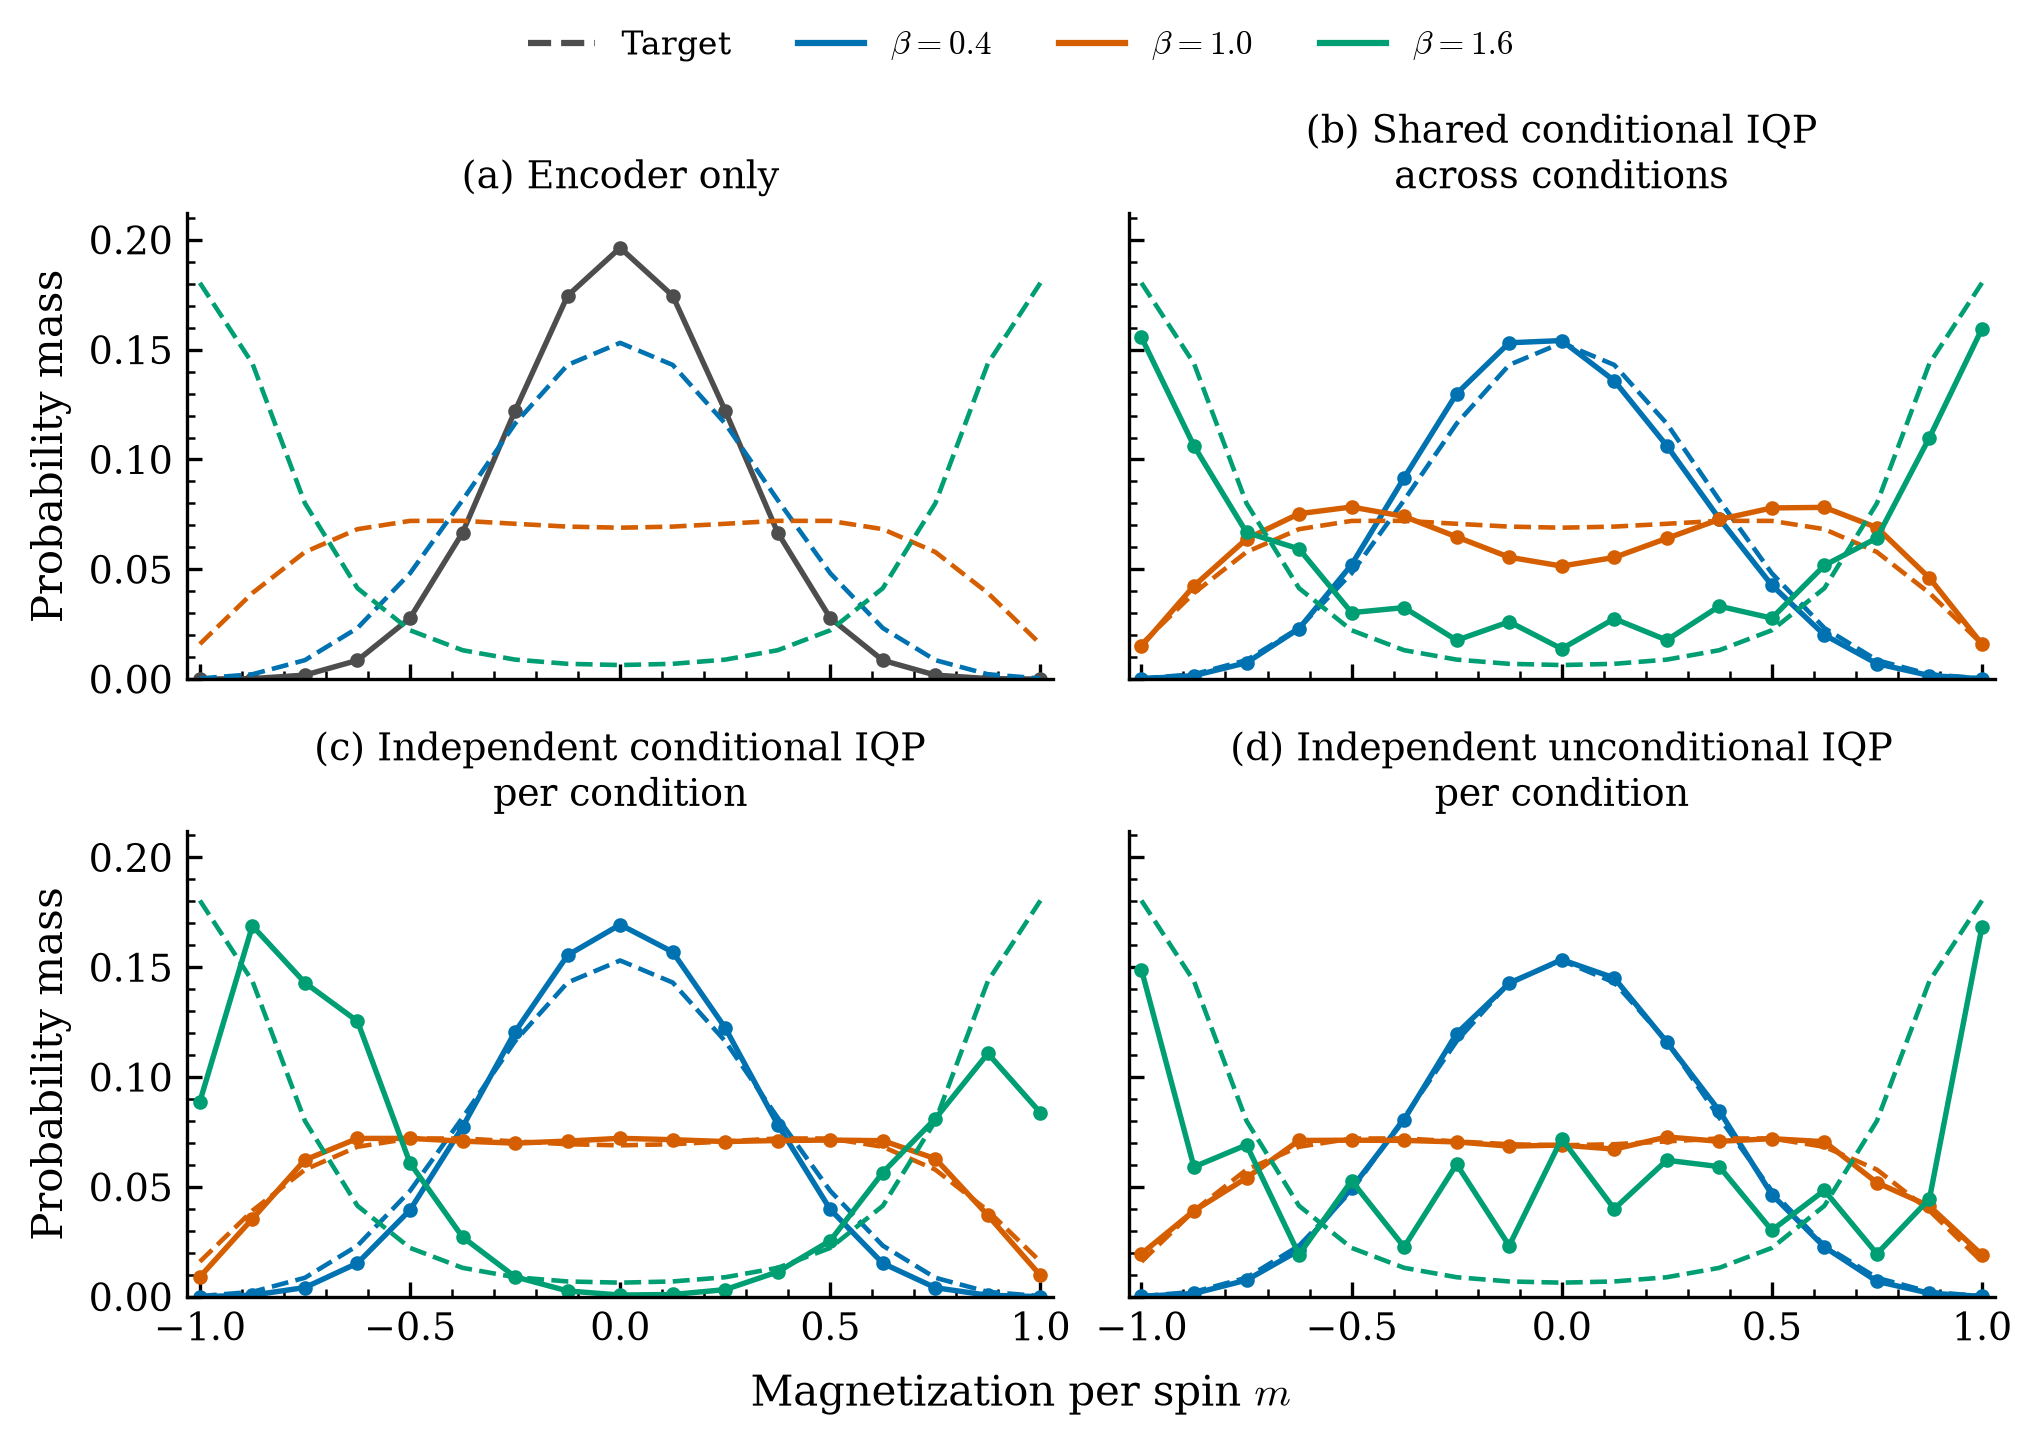
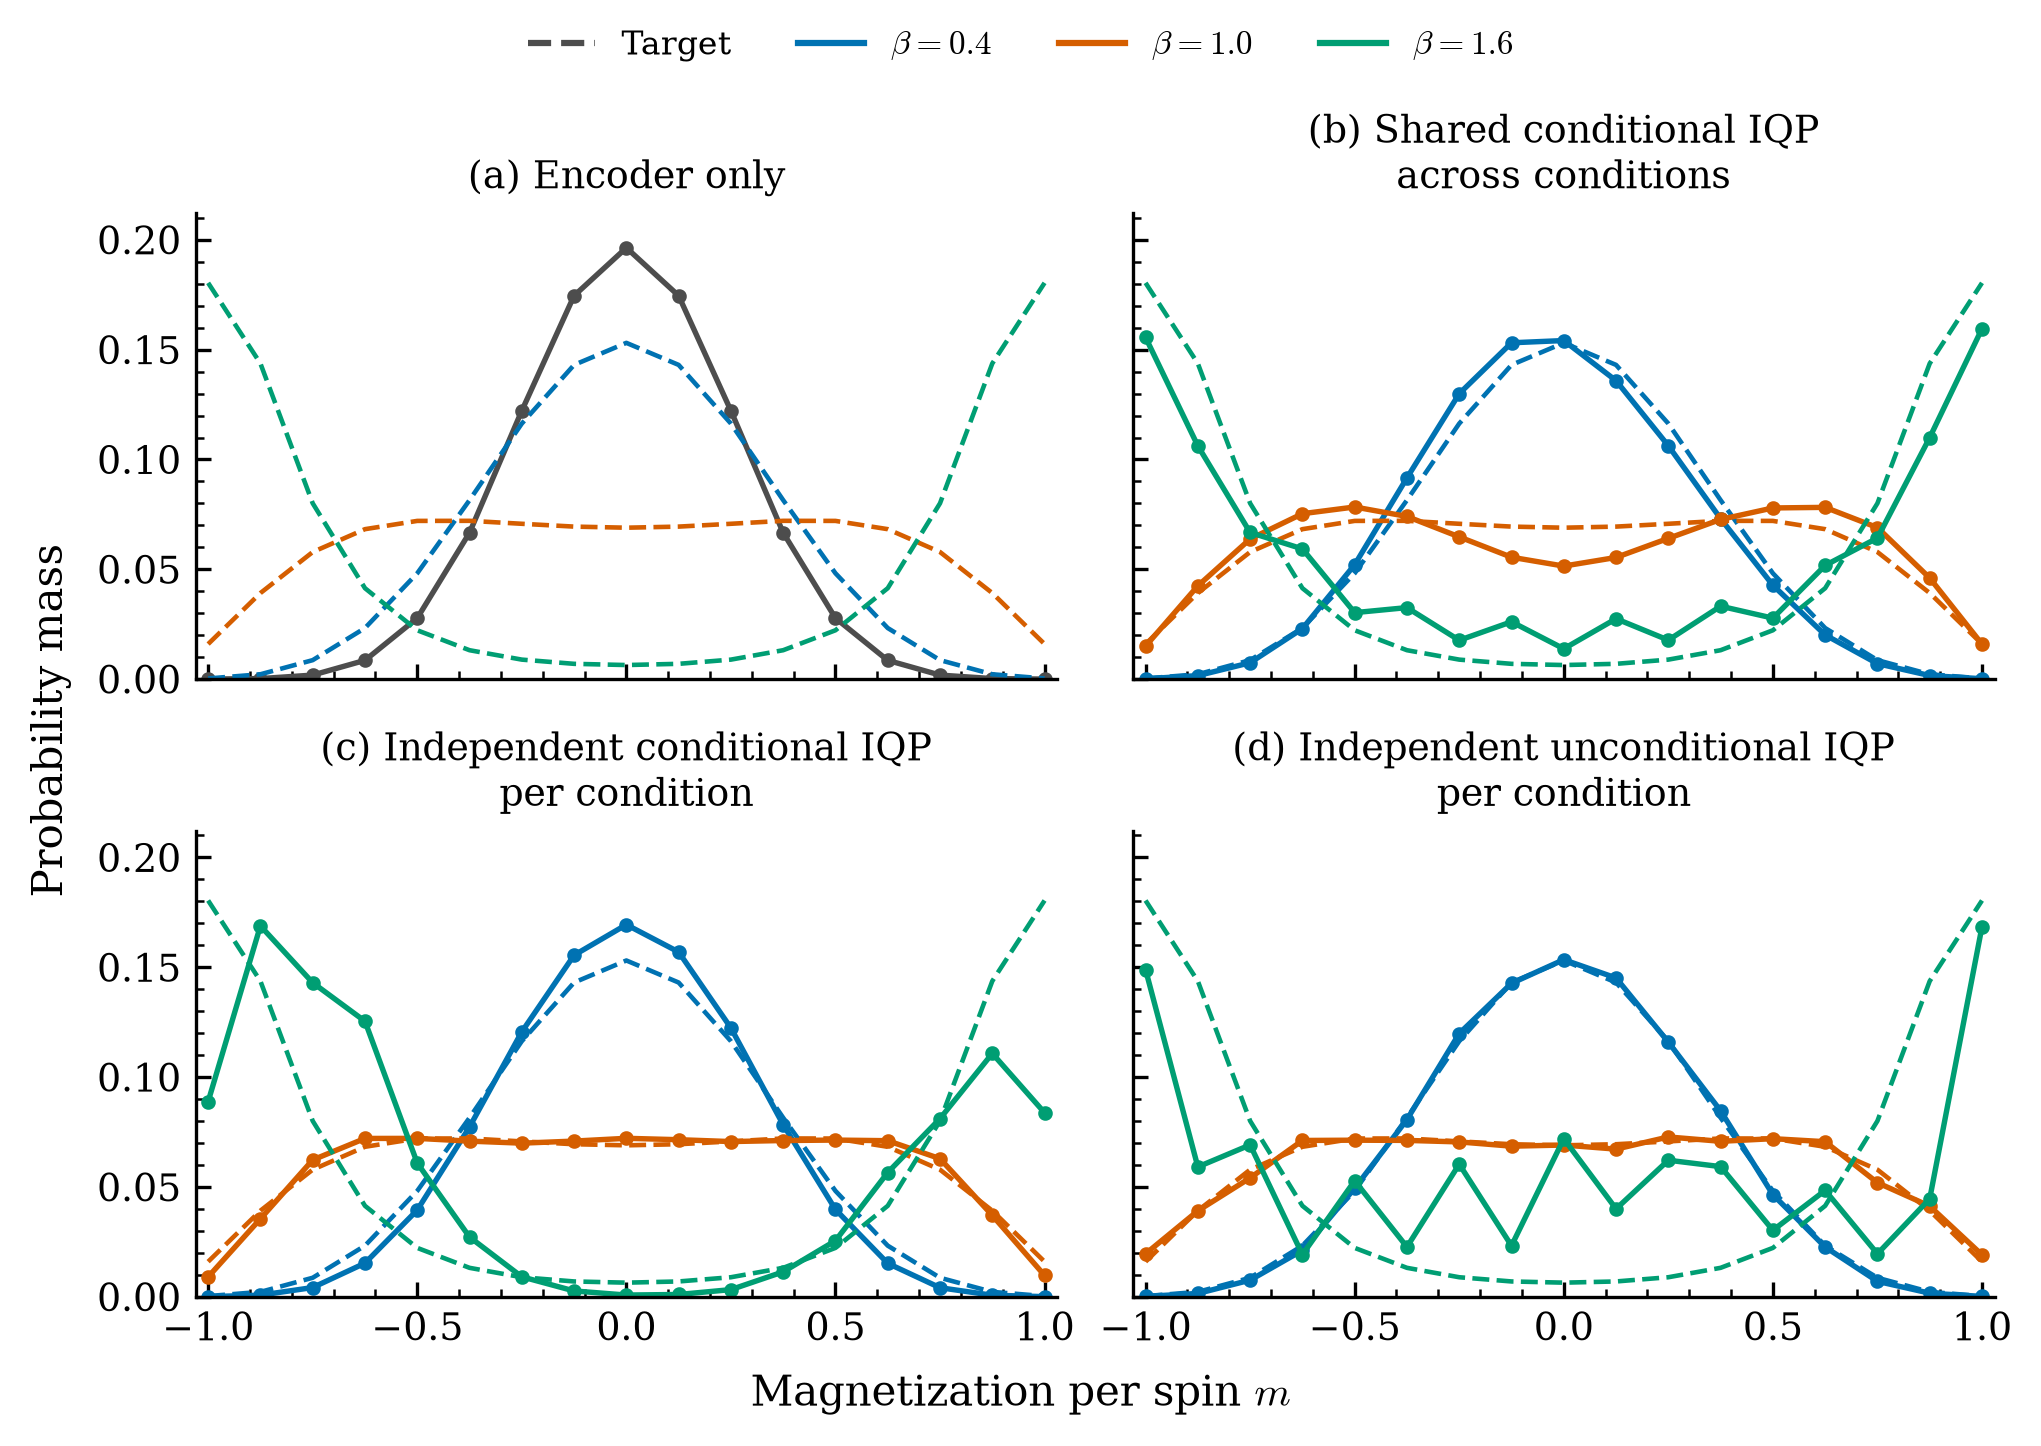
Use one shared probability-mass label in Figure 3

diff --git a/paper_experiments/figures.py b/paper_experiments/figures.py
@@ -139,8 +139,7 @@ def _curie(data, output):
         ax.set_xticks([-1, -0.5, 0, 0.5, 1])
         ax.spines[["top", "right"]].set_visible(False)
     fig.supxlabel(r"Magnetization per spin $m$", fontsize=10)
-    for ax in axes[:, 0]:
-        ax.set_ylabel("Probability mass")
+    fig.supylabel("Probability mass", fontsize=10)
     handles = [
         plt.Line2D([], [], color=COLORS[i], label=rf"$\beta={beta:.1f}$")
         for i, beta in enumerate(payload["betas"])
